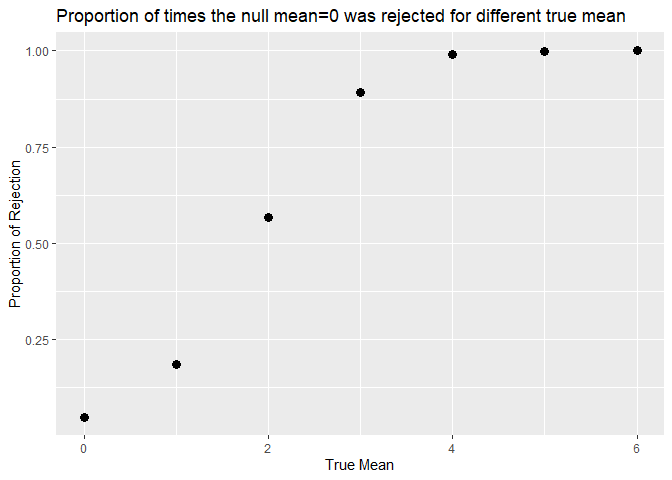
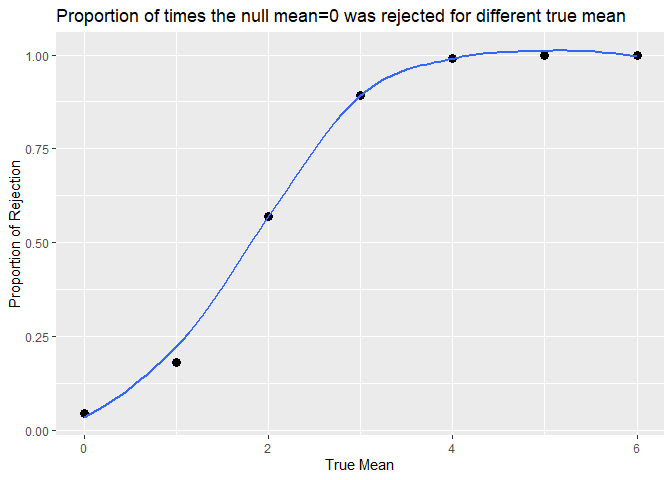
change the comment on last question, add a smooth line and remove the messages

diff --git a/p8105_hw5_sx2337.md b/p8105_hw5_sx2337.md
@@ -173,12 +173,6 @@ prop_test_output =
   mutate(test_df = map(all_distinct_city, prop_test_function)) %>% 
   unnest(test_df) %>% 
   arrange(desc(estimate))
-```
-
-    ## Warning in prop.test(sum(dataset$disposition == "Closed without arrest" | : Chi-
-    ## squared近似算法有可能不准
-
-``` r
 prop_test_output
 ```
 
@@ -227,7 +221,7 @@ sim_t_test()
     ## # A tibble: 1 × 2
     ##   estimate p.value
     ##      <dbl>   <dbl>
-    ## 1 -0.00407   0.996
+    ## 1    -1.35   0.150
 
 Now generate 5000 times and save mu and pvalue:
 
@@ -268,6 +262,7 @@ sim_results_over_mu %>%
   ungroup() %>% 
   ggplot(aes(x=mu_val, y=proportion))+
   geom_point(shape=19,size = 3)+
+  geom_smooth(se=FALSE)+
   labs(title = "Proportion of times the null mean=0 was rejected for different true mean" )+
   xlab("True Mean")+
   ylab("Proportion of Rejection")
@@ -320,15 +315,26 @@ ggplot(all_estimate_df, aes(x=mu_val, y=avg_mu_hat))+
 
 In accordance to the plot, it seems like the sample average of
 $\hat \mu$ across tests for which the null is rejected is not
-approximately equal to the true value of $\mu$. When the true mean is
-between 0 and 4, the estimated values are very different from each
-other. This is because for all rejected null values, there estimated
-value are significantly different from the null hypothesis $\mu =0$.
-Thus, their estimated mean will likely to be greater than the overall
-estimated mean which includes estimated mean that is close to null
-hypothesis $\mu = 0$. But when the power of the test gets stronger, the
-average estimated mean for simulation with null rejected is similar to
-the one for all simulations. Especially for the case when effect size is
-large, in which case almost all cases are rejected. And therefore,
-estimate values for simulations with null rejected are tend to the
-estimated values for all cases.
+approximately equal to the true value of $\mu$.
+
+When the true mean is 0, can see that the average estimated mean for
+rejected null values approximate all values. This is because out of all
+rejected values from simulated values for N(0,5), there is theoretically
+a 50-50 percent chance the estimated mean is negative and positive.
+Therefore, it is likely to have an estimated average mean of a value
+close to 0 for rejected null values.
+
+When the true mean is between 1 and 4, the estimated values are very
+different from each other. This is because for all rejected null values,
+there estimated value are significantly different from the null
+hypothesis $\mu =0$. Thus, their estimated mean will likely to be
+greater than the overall estimated mean which includes estimated mean
+that is close to null hypothesis $\mu = 0$.
+
+But when the power of the test gets stronger, the average estimated mean
+for simulation with null rejected is similar to the one for all
+simulations. Especially for the case when effect size (true mean is
+significantly different from null hypothesis) is large, in which case
+almost all cases are rejected. And therefore, the estimated values for
+simulations with null rejected tends to have the same estimated values
+as the estimated values for all cases.
